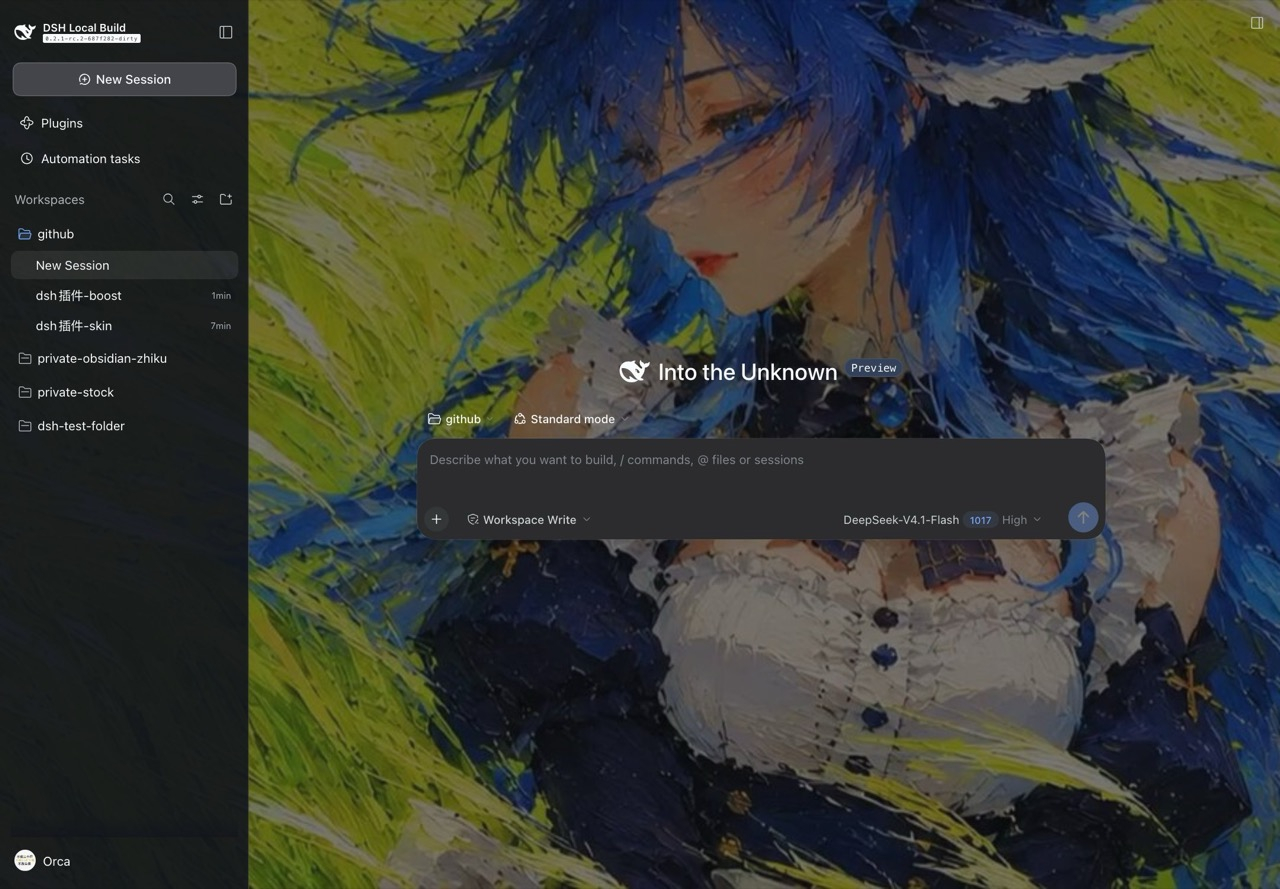
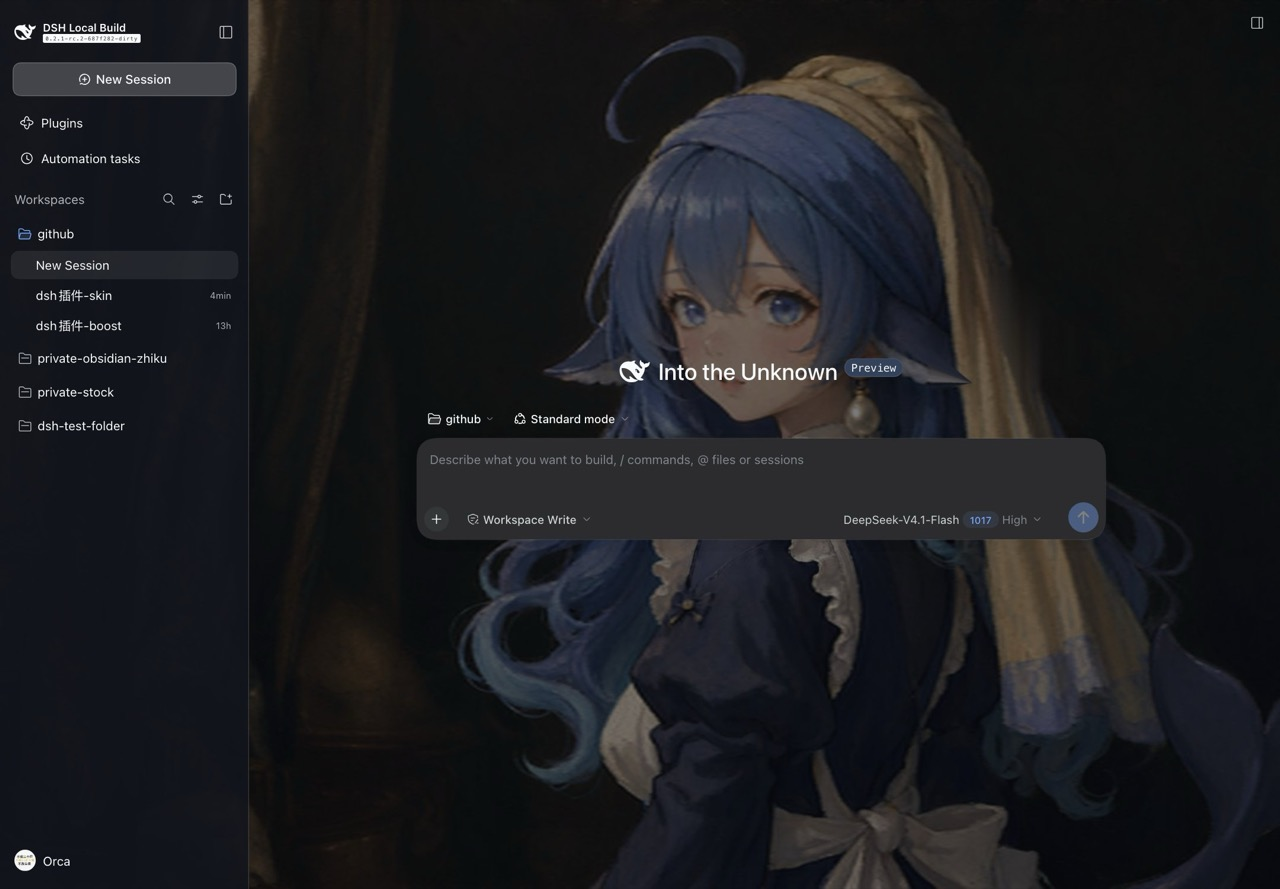
feat(shell-skin): add two character wallpapers
Ship the new artwork as presets, encoded to 1920x1080 JPEG for the bundle;
the 2560x1440 masters stay in assets/master and are excluded from the
package. Drop the stray orca asset.

diff --git a/src/client/index.tsx b/src/client/index.tsx
@@ -19,6 +19,8 @@ import type { ReactElement } from 'react'
 import wallpaper from '../../assets/wallpaper.jpg'
 import wallpaperArc from '../../assets/wallpaper-arc.jpg'
 import wallpaperAurora from '../../assets/wallpaper-aurora.jpg'
+import wallpaperWhale1 from '../../assets/wallpaper-whale-1.jpg'
+import wallpaperWhale2 from '../../assets/wallpaper-whale-2.jpg'
 import { en, zh, type SkinKey } from './locales.ts'
 import { SkinSettingsSection } from './SkinSettingsSection.tsx'
 import { addWallpaper, loadActiveId, loadLastPick, loadWallpapers, removeWallpaper, saveActiveId, saveLastPick, type StoredWallpaper } from './wallpaper-store.ts'
@@ -37,6 +39,8 @@ const PRESETS: readonly { id: string; src: string; labelKey: SkinKey }[] = [
   { id: 'classic', src: wallpaper, labelKey: 'preset.classic' },
   { id: 'aurora', src: wallpaperAurora, labelKey: 'preset.aurora' },
   { id: 'arc', src: wallpaperArc, labelKey: 'preset.arc' },
+  { id: 'whale-1', src: wallpaperWhale1, labelKey: 'preset.whale1' },
+  { id: 'whale-2', src: wallpaperWhale2, labelKey: 'preset.whale2' },
 ]
 
 /** Fast lookup for the applied background. */
@@ -91,7 +95,7 @@ interface SkinSettings {
   randomWallpaper: boolean
   /** Fall back to the artwork shipped with the plugin. */
   bundledWallpaper: boolean
-  /** Which bundled artwork to use: classic, aurora, or arc. */
+  /** Which bundled artwork to use: a PRESETS id. */
   bundledPreset: string
   /** Package version, injected by the host for the settings footer. */
   version?: string

diff --git a/src/client/locales.ts b/src/client/locales.ts
@@ -34,6 +34,8 @@ export const zh = {
   'preset.classic': '当前壁纸',
   'preset.aurora': '极光',
   'preset.arc': '几何弧线',
+  'preset.whale1': '鲸娘 1',
+  'preset.whale2': '鲸娘 2',
   'image.title': '图片',
   'image.description': '最多 9 张，只保存在这台浏览器里，不会同步到其他设备。',
   'image.add': '添加图片',
@@ -94,6 +96,8 @@ export const en: Record<SkinKey, string> = {
   'preset.classic': 'Classic',
   'preset.aurora': 'Aurora',
   'preset.arc': 'Arcs',
+  'preset.whale1': 'Whale 1',
+  'preset.whale2': 'Whale 2',
   'image.title': 'Images',
   'image.description': 'Up to 9 images, kept in this browser only and never synced.',
   'image.add': 'Add image',

diff --git a/src/index.ts b/src/index.ts
@@ -46,7 +46,7 @@ export interface Config {
   randomWallpaper: Volatile<boolean>
   /** Fall back to the artwork shipped with the plugin. */
   bundledWallpaper: Volatile<boolean>
-  /** Which bundled artwork to use: classic, aurora, or arc. */
+  /** Which bundled artwork to use: a PRESETS id from the client half. */
   bundledPreset: Volatile<string>
 }
 

diff --git a/README.md b/README.md
@@ -22,7 +22,7 @@
 | 功能 | 说明 |
 |---|---|
 | **开场动画** | 页面加载时播放一段约 1.5 秒的动画，然后淡出；系统开启“减少动态效果”时自动跳过 |
-| **壁纸** | 自带三张（当前 / 极光 / 几何弧线）；也可以上传最多 9 张自己的图片，打开随机模式后每次启动换一张 |
+| **壁纸** | 自带五张（经典 / 极光 / 几何弧线 / 鲸娘 1 / 鲸娘 2）；也可以上传最多 9 张自己的图片，打开随机模式后每次启动换一张 |
 | **面板透明度** | 分别控制浅色 / 深色下侧边栏和面板的透明度，拖动时实时预览 |
 | **启动时的底色** | 应用加载前先铺上颜色，避免打开瞬间闪白 |
 | **设置页** | 在「设置 → 界面皮肤」里，所有项即时生效 |
@@ -99,7 +99,7 @@ dsh plugin --profile web add "file:$PWD"
 | 自定义壁纸 / 内置壁纸 | 即时 |
 | 随机壁纸 | 即时（下次启动从已上传的图片里随机选一张） |
 | 图片 | 最多 9 张，支持一次选多张，每张上限 10 MB；点击缩略图切换，悬停右上角可删除 |
-| 内置壁纸样式 | 即时；三张缩略图，每行三张 |
+| 内置壁纸样式 | 即时；五张缩略图，每行三张 |
 | 恢复默认 | 即时重置上面所有设置项（不删除已上传的图片） |
 
 设置页底部还有两个按钮：「报告问题」打开带模板的 GitHub issue；「复制诊断信息」把版本、平台和当前设置复制到剪贴板——不含图片、文件名或任何个人信息。
@@ -138,6 +138,9 @@ pnpm build        # lib/index.js + lib/client.js
 pnpm typecheck
 pnpm smoke        # 不启浏览器，加载 client bundle 并断言注册行为
 ```
+
+内置壁纸的原图放在 `assets/master/`（不参与打包），打包用的是 `assets/wallpaper-*.jpg`；
+新增壁纸时改 `src/client/index.tsx` 的 `PRESETS` 一处，再补 `preset.*` 两个语言 key 即可。
 
 边改边看：在 `deepseek-harness` 目录里挂本地 overlay，不用装进 profile：
 

diff --git a/CHANGELOG.md b/CHANGELOG.md
@@ -6,6 +6,7 @@
 
 - 插件图标换成角色立绘 PNG（256×256，白底已做透明处理）。
 - 内置壁纸增加两张可选样式：极光、几何弧线；默认仍是原来的那张，可在设置里切换。
+- 内置壁纸再增加两张角色立绘（鲸娘 1 / 鲸娘 2）。打包用 1920×1080 JPEG，原图保留在 `assets/master/`，不随 npm 包发布。
 - 自定义壁纸最多保留 9 张，支持一次选多张；点击缩略图切换当前使用的那张，旧版单图记录会自动迁移。
 - 新增「随机壁纸」开关：打开后每次启动从已上传的图片里随机选一张。
 - 设置页底部新增「报告问题」与「复制诊断信息」：前者打开带模板的 issue，后者只复制版本、平台和设置项，不包含图片或个人信息。
